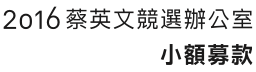
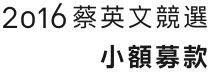
update main title and share button svg

diff --git a/stylesheets/all.css b/stylesheets/all.css
@@ -192,15 +192,13 @@ hr, .divider { margin-top: 24px; margin-bottom: 24px; border-top: 1px solid #ccc
 .hero .visual #canvas { position: absolute; top: 0; left: 0; right: 0; bottom: 0; width: 100%; height: 45%; -webkit-tap-highlight-color: transparent; }
 .hero .logo { margin-bottom: 0px; text-indent: -119988px; overflow: hidden; text-align: left; text-indent: -119988px; overflow: hidden; text-align: left; background-image: url('/images/LIGHT-UP-TAIWAN-only.png?1432225092'); background-repeat: no-repeat; background-position: 50% 50%; width: 84px; height: 63px; background-image: none, url('/images/LIGHT-UP-TAIWAN-only.svg?1432225092'); background-position: center center; -webkit-background-size: contain; -moz-background-size: contain; -o-background-size: contain; background-size: contain; }
 .hero .donate { position: relative; z-index: 10; margin: 2px; }
-.hero .donate .share-button { margin-bottom: 2px; margin-right: 16px; text-align: right; }
+.hero .donate .share-button { margin-bottom: 7px; margin-right: 16px; text-align: right; }
 .hero .donate .share-button span { display: inline-block; margin-right: 6px; vertical-align: text-top; font-size: 13px; line-height: 24px; }
-.hero .donate .share-button .fb-share, .hero .donate .share-button .tweet { display: -moz-inline-stack; display: inline-block; vertical-align: middle; padding: 4px; font-family: "icomoon"; speak: none; font-size: 24px; font-style: normal; font-weight: normal; font-variant: normal; text-transform: none; text-decoration: none; line-height: 1; color: rgba(0, 0, 0, 0.35); -webkit-transition: color 0.25s; -moz-transition: color 0.25s; -o-transition: color 0.25s; transition: color 0.25s; /* Better Font Rendering =========== */ -webkit-font-smoothing: antialiased; -moz-osx-font-smoothing: grayscale; }
-.hero .donate .share-button .fb-share span, .hero .donate .share-button .tweet span { display: none; }
-.hero .donate .share-button .fb-share:before { content: "\ea8e"; }
-.hero .donate .share-button .fb-share:hover { color: #45619d; }
-.hero .donate .share-button .tweet:before { content: "\ea93"; }
-.hero .donate .share-button .tweet:hover { color: #55acee; }
-.hero .donate .title { margin: 0 18px 18px auto; text-indent: -119988px; overflow: hidden; text-align: left; background-image: url('/images/office-donate.png?1432226668'); background-repeat: no-repeat; background-position: 50% 50%; width: 256px; height: 72px; background-image: none, url('/images/office-donate.svg?1432226668'); background-position: center center; -webkit-background-size: contain; -moz-background-size: contain; -o-background-size: contain; background-size: contain; }
+.hero .donate .share-button .fb-share, .hero .donate .share-button .tweet { display: -moz-inline-stack; display: inline-block; vertical-align: middle; -webkit-filter: brightness(0%); -moz-filter: brightness(0%); filter: brightness(0%); opacity: 0.25; }
+.hero .donate .share-button .fb-share:hover, .hero .donate .share-button .tweet:hover { -webkit-filter: brightness(100%); -moz-filter: brightness(100%); filter: brightness(100%); opacity: 1; }
+.hero .donate .share-button .fb-share { text-indent: -119988px; overflow: hidden; text-align: left; background-image: url('/images/icon-share-facebook.png?1432220552'); background-repeat: no-repeat; background-position: 50% 50%; width: 32px; height: 32px; background-image: none, url('/images/icon-share-facebook.svg?1432220552'); background-position: center center; -webkit-background-size: contain; -moz-background-size: contain; -o-background-size: contain; background-size: contain; }
+.hero .donate .share-button .tweet { text-indent: -119988px; overflow: hidden; text-align: left; background-image: url('/images/icon-share-twitter.png?1432220552'); background-repeat: no-repeat; background-position: 50% 50%; width: 32px; height: 32px; background-image: none, url('/images/icon-share-twitter.svg?1432220552'); background-position: center center; -webkit-background-size: contain; -moz-background-size: contain; -o-background-size: contain; background-size: contain; }
+.hero .donate .title { margin: 0 18px 18px auto; text-indent: -119988px; overflow: hidden; text-align: left; background-image: url('/images/office-donate.png?1432300267'); background-repeat: no-repeat; background-position: 50% 50%; width: 211px; height: 72px; background-image: none, url('/images/office-donate.svg?1432300267'); background-position: center center; -webkit-background-size: contain; -moz-background-size: contain; -o-background-size: contain; background-size: contain; }
 .hero .donate .donate-item-list:after { content: ""; display: table; clear: both; }
 .hero .donate .donate-item-list .item { -webkit-box-sizing: border-box; -moz-box-sizing: border-box; box-sizing: border-box; display: block; float: left; width: calc(50% - 4px); margin: 2px; padding: 12px; color: white; text-align: center; -webkit-transition: background-color 0.25s, color 0.25s; -moz-transition: background-color 0.25s, color 0.25s; -o-transition: background-color 0.25s, color 0.25s; transition: background-color 0.25s, color 0.25s; cursor: pointer; }
 .hero .donate .donate-item-list .item:hover { text-decoration: none; }

diff --git a/sass/partial/_hero.sass b/sass/partial/_hero.sass
@@ -41,7 +41,7 @@
     margin: 2px
 
     .share-button
-      +trailer(.1)
+      +trailer(.3)
       margin-right: 16px
       text-align: right
 
@@ -53,39 +53,18 @@
 
       .fb-share, .tweet
         +inline-block()
-        padding: 4px
-        font-family: 'icomoon'
-        speak: none
-        font-size: 24px
-        font-style: normal
-        font-weight: normal
-        font-variant: normal
-        text-transform: none
-        text-decoration: none
-        line-height: 1
-        color: $color-black-a35
-        +transition(color .25s)
+        +filter(brightness(0%))
+        opacity: .25
 
-        /* Better Font Rendering =========== */
-        -webkit-font-smoothing: antialiased
-        -moz-osx-font-smoothing: grayscale
-
-        span
-          display: none
+        &:hover
+          +filter(brightness(100%))
+          opacity: 1
 
       .fb-share
-        &:before
-          content: "\ea8e"
-
-        &:hover
-          color: #45619D
+        +replace-text-with-svg("icon-share-facebook")
 
       .tweet
-        &:before
-          content: "\ea93"
-
-        &:hover
-          color: #55ACEE
+        +replace-text-with-svg("icon-share-twitter")
 
     .title
       margin: 0 18px 18px auto
